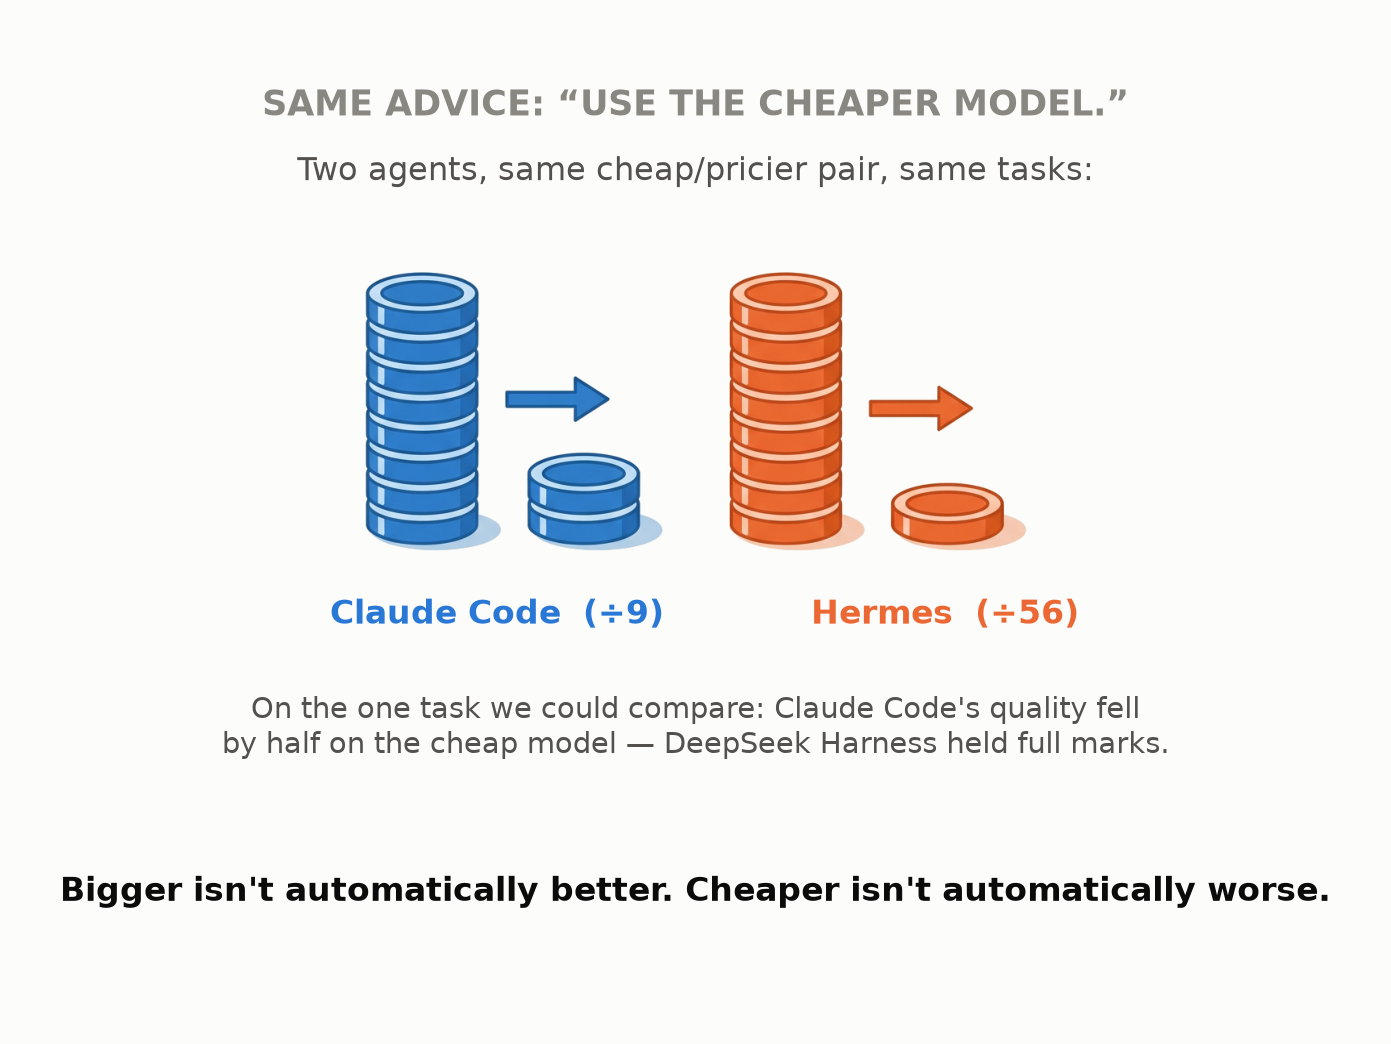
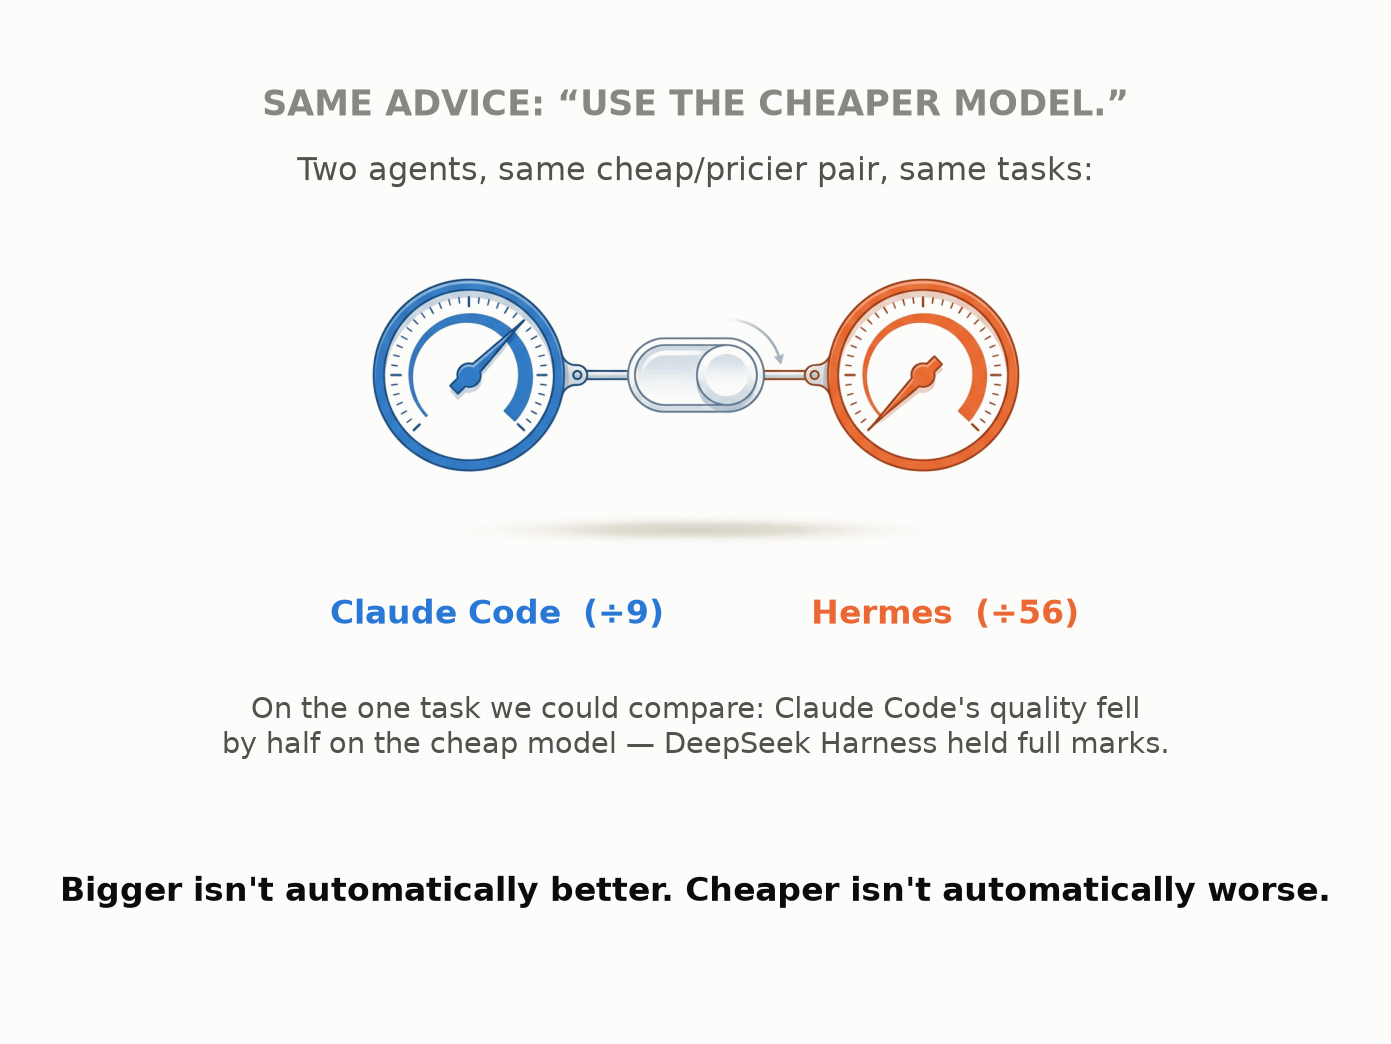
piece(harness-agents-pt1): redesign per Max's feedback — cards need drama, hero images need an actual insight
LinkedIn cards 1, 2, 4, 5 were "лажовые" (except 3): generic icon pairs with
no visual tension. Rebuilt all four on card 3's own winning grammar
(gauge(s) + switch, drama from contrast) instead of ad-hoc metaphors:
- card1: two identical gauges, needles padlocked in place, switch drawn
  mid-flip with motion arcs — "the switch visibly moves, the needles don't"
- card2: one gauge filling most of the frame, wild and motion-blurred
  (Hermes, one run) next to one tiny calm gauge (Claude Code's harness
  effect) — the SIZE gap itself is the insight now, not just direction
- card4: same gauge-pair-plus-switch layout as card3, both needles drop on
  flip but by very different amounts (moderate vs. near-empty)
- card5: left gauge's needle swings low-to-high (ghosted double position),
  right gauge's needle stays padlocked at zero — price jumps, result frozen

Hero images (begin/middle/end) were "too abstract, say nothing" — redone
to encode one specific fact each, not just mood:
- hero_begin: two identical ribbons enter the same harness arch: one exits
  straightened/simplified, the other exits visibly more tangled/knotted —
  same cause, opposite effect, literal and unmistakable
- hero_middle: a tall translucent corridor with a wild zigzag barely
  contained inside it, next to a narrow corridor with a calm wave — noise
  band visibly wider than signal band
- hero_end: three needles from one shared baseline, pointing in three
[…]

Changed region(s): [[0.2473, 0.2452, 0.7419, 0.5517]]

diff --git a/pieces/20261106_harness_agents_pt1/linkedin/genart/compose_all.py b/pieces/20261106_harness_agents_pt1/linkedin/genart/compose_all.py
@@ -53,7 +53,7 @@ fig, ax = new_fig()
 ax.text(5, 9.55, "SAME AGENT. HARNESS ON vs OFF.", fontsize=13.5, color=MUTED, ha="center", fontweight="bold")
 ax.text(5, 8.75, "One task, 3 agents — the only one\nwhere quality varied at all:", fontsize=12, color=SEC_INK, ha="center")
 
-art, (x0, x1, y0, y1) = art_box(f"{G}/card1_transparent.png", box_w=7.0, cx=5.0, cy=6.0)
+art, (x0, x1, y0, y1) = art_box(f"{G}/card1_transparent_v3.png", box_w=7.0, cx=5.0, cy=6.0)
 ax.imshow(art, extent=[x0, x1, y0, y1], zorder=2)
 ax.text(5.0, y0 + 0.78 * (y1 - y0), "Harness", fontsize=13, color=INK, ha="center", va="center", fontweight="bold", zorder=3)
 
@@ -68,11 +68,11 @@ fig, ax = new_fig()
 ax.text(5, 9.4, "RUN IT TWICE.", fontsize=20, color=INK, ha="center", fontweight="bold")
 ax.text(5, 8.7, "Same task. Same settings. Nothing changed.", fontsize=12, color=SEC_INK, ha="center")
 
-art, (x0, x1, y0, y1) = art_box(f"{G}/card2_transparent.png", box_w=7.6, cx=5.0, cy=6.1)
+art, (x0, x1, y0, y1) = art_box(f"{G}/card2_transparent_v3.png", box_w=5.6, cx=4.7, cy=6.1)
 ax.imshow(art, extent=[x0, x1, y0, y1], zorder=2)
 
-ax.text(2.85, 3.5, "Hermes —\ntwo identical runs", fontsize=10.5, color=SEC_INK, ha="center")
-ax.text(7.7, 3.5, "Claude Code's loudest\nharness effect in the test", fontsize=10.5, color=SEC_INK, ha="center")
+ax.text(3.3, 2.55, "Hermes — one run,\ncaught mid-swing", fontsize=10.5, color=SEC_INK, ha="center")
+ax.text(8.3, 4.55, "Claude Code's loudest\nharness effect, for scale", fontsize=9.5, color=SEC_INK, ha="center")
 
 ax.text(5, 1.4, "The agent's own noise outsized\nthe harness effect we were testing.", fontsize=13, color=INK, ha="center", fontweight="bold")
 save(fig, "card2_FINAL")
@@ -84,7 +84,7 @@ fig, ax = new_fig()
 ax.text(5, 9.4, "SAME ADVICE: “USE THE CHEAPER MODEL.”", fontsize=12.5, color=MUTED, ha="center", fontweight="bold")
 ax.text(5, 8.7, "Two agents, same cheap/pricier pair, same tasks:", fontsize=11.5, color=SEC_INK, ha="center")
 
-art, (x0, x1, y0, y1) = art_box(f"{G}/card4_transparent.png", box_w=7.6, cx=5.0, cy=6.2)
+art, (x0, x1, y0, y1) = art_box(f"{G}/card4_transparent_v2.png", box_w=7.4, cx=5.0, cy=6.2)
 ax.imshow(art, extent=[x0, x1, y0, y1], zorder=2)
 
 ax.text(2.85, 3.9, "Claude Code  (÷9)", fontsize=12, color=BLUE, ha="center", fontweight="bold")
@@ -101,12 +101,12 @@ fig, ax = new_fig()
 ax.text(5, 9.4, "ZERO FILES CHANGED.", fontsize=20, color=INK, ha="center", fontweight="bold")
 ax.text(5, 8.7, "Same task, same model, for Hermes:", fontsize=12, color=SEC_INK, ha="center")
 
-art, (x0, x1, y0, y1) = art_box(f"{G}/card5_transparent.png", box_w=7.6, cx=5.0, cy=6.3)
+art, (x0, x1, y0, y1) = art_box(f"{G}/card5_transparent_v2.png", box_w=7.6, cx=5.0, cy=6.3)
 ax.imshow(art, extent=[x0, x1, y0, y1], zorder=2)
-ax.text(5.0, y0 + 0.82 * (y1 - y0), "Harness", fontsize=12.5, color=INK, ha="center", va="center", fontweight="bold", zorder=3)
+ax.text(5.0, y0 + 0.86 * (y1 - y0), "Harness", fontsize=12.5, color=INK, ha="center", va="center", fontweight="bold", zorder=3)
 
-ax.text(2.6, 4.1, "without harness", fontsize=10, color=MUTED, ha="center")
-ax.text(7.6, 4.1, "with harness", fontsize=10, color=MUTED, ha="center")
+ax.text(2.6, 4.1, "price", fontsize=10, color=MUTED, ha="center")
+ax.text(7.6, 4.1, "result", fontsize=10, color=MUTED, ha="center")
 
 ax.text(5, 2.7, "≈4× higher price for the identical\nzero-result outcome", fontsize=12, color=RED, ha="center", fontweight="bold")
 ax.text(5, 1.1, "Effort moved. The result didn't.", fontsize=13.5, color=INK, ha="center", fontweight="bold")
